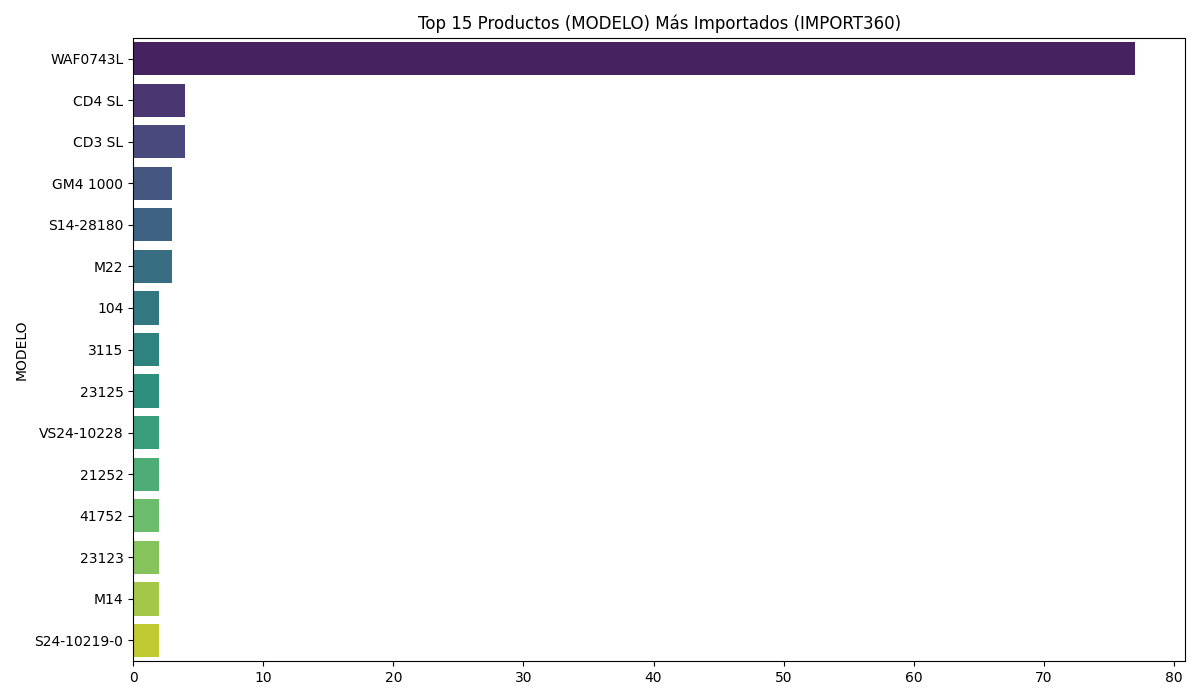
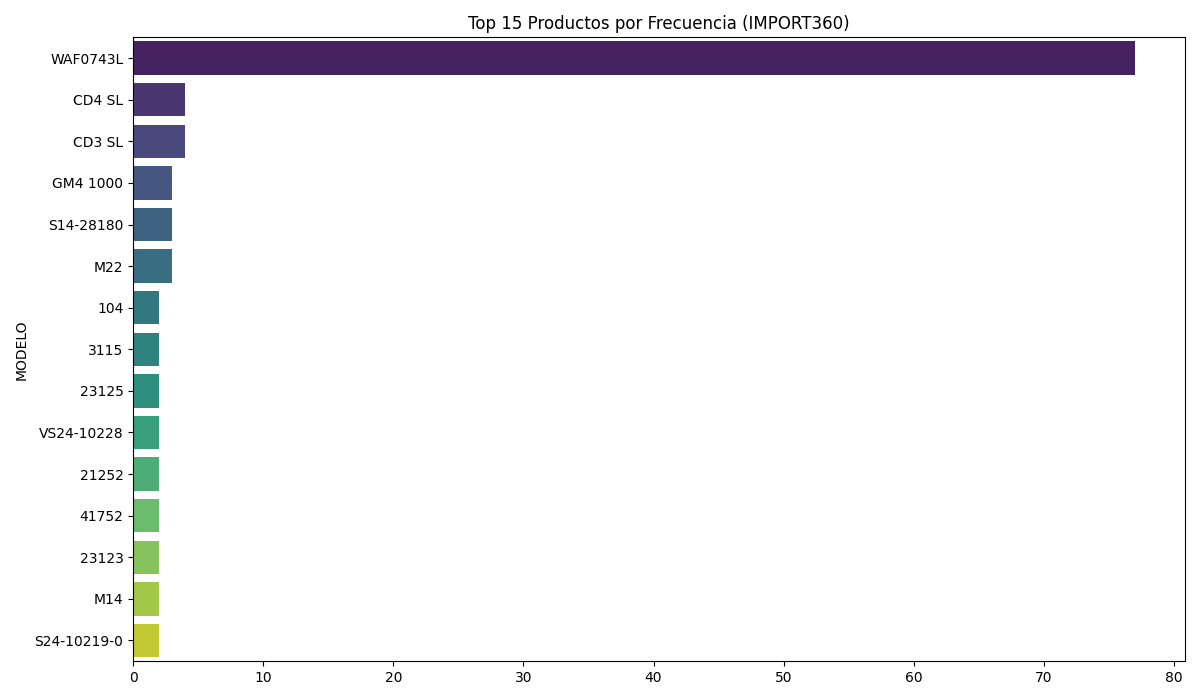
feat: Refina análisis para basarse en el valor de importación (US$ CIF)
Se ha actualizado el script `analisis.py` para centrar el análisis exploratorio de datos en el valor monetario de las importaciones (`US$ CIF`), en lugar del recuento de registros, proporcionando una perspectiva más orientada al negocio.

Cambios clave:
- Toda la lógica de agregación en los gráficos (tendencias, mapas de calor, etc.) ahora utiliza la suma de `US$ CIF`.
- Se han añadido nuevos gráficos para mostrar el "Top 15 de productos por valor" para cada empresa, complementando el análisis de frecuencia.
- El análisis de productos de temporada de pesca ahora identifica los productos más valiosos importados durante esos períodos.
- El `README.md` ha sido completamente actualizado para reflejar el nuevo enfoque en el valor, con nuevos títulos, descripciones y las visualizaciones correspondientes.

diff --git a/analisis.py b/analisis.py
@@ -29,82 +29,93 @@ def cargar_y_limpiar(archivo, marcas, nombre_empresa):
 df_jorle = cargar_y_limpiar('jorle.xlsx', marcas_jorle, 'Jorle')
 df_import360 = cargar_y_limpiar('IMPORT360.xlsx', marcas_import360, 'IMPORT360')
 df_completo = pd.concat([df_jorle, df_import360], ignore_index=True)
-df_completo.dropna(subset=['FECHA'], inplace=True)
+df_completo.dropna(subset=['FECHA', 'US$ CIF'], inplace=True)
 
 # --- Análisis Estadístico Conciso ---
 stats_buffer = io.StringIO()
 stats_buffer.write("--- Resumen Estadístico (Columnas Relevantes) ---\n")
-columnas_relevantes = ['US$ FOB', 'US$ FLETE', 'US$ SEGURO', 'US$ CIF', 'PESO NETO', 'PESO BRUTO', 'CANTIDAD']
+columnas_relevantes = ['US$ CIF', 'CANTIDAD COMERCIAL', 'PESO NETO', 'PESO BRUTO']
 df_relevante = df_completo[columnas_relevantes]
 stats_buffer.write(df_relevante.describe().to_string())
 with open("resumen_estadistico.txt", "w") as f:
     f.write(stats_buffer.getvalue())
 
-# --- Identificar Productos Clave en Temporada de Pesca ---
+# --- Identificar Productos Clave en Temporada de Pesca (por Valor) ---
 temporada_pesca = [4, 5, 6, 11, 12]
 df_pesca = df_completo[df_completo['FECHA'].dt.month.isin(temporada_pesca)]
-productos_top_pesca = df_pesca['MODELO'].value_counts().nlargest(15)
+productos_top_pesca_valor = df_pesca.groupby('MODELO')['US$ CIF'].sum().nlargest(15)
 with open("productos_temporada.txt", "w") as f:
-    f.write("--- Top 15 Productos (MODELO) en Temporada de Pesca ---\n")
-    f.write(productos_top_pesca.to_string())
+    f.write("--- Top 15 Productos (MODELO) por Valor US$ CIF en Temporada de Pesca ---\n")
+    f.write(productos_top_pesca_valor.to_string())
 
 # --- Función para Generar Gráficos por Empresa ---
 def generar_graficos_empresa(df_empresa, sufijo_empresa):
-    # 1. Gráfico de tendencia mensual de importaciones por marca
-    monthly_brand_data = df_empresa.groupby([df_empresa['FECHA'].dt.to_period('M'), 'MARCA_NORMALIZADA']).size().unstack(fill_value=0)
+    # 1. Gráfico de tendencia mensual por VALOR
+    monthly_brand_data = df_empresa.groupby(df_empresa['FECHA'].dt.to_period('M'))['US$ CIF'].sum()
     fig, ax = plt.subplots(figsize=(15, 8))
     monthly_brand_data.plot(kind='line', ax=ax)
-    ax.set_title(f'Tendencia Mensual de Importaciones por Marca ({sufijo_empresa})')
-    ax.legend(title='Marca', bbox_to_anchor=(1.05, 1), loc='upper left')
+    ax.set_title(f'Tendencia Mensual de Importaciones por Valor US$ CIF ({sufijo_empresa})')
+    ax.set_ylabel('Valor Total US$ CIF')
     plt.tight_layout()
-    plt.savefig(f'tendencia_mensual_marca_{sufijo_empresa}.png')
+    plt.savefig(f'tendencia_valor_mensual_{sufijo_empresa}.png')
     plt.close(fig)
 
-    # 2. Histograma de frecuencia de los 15 productos más importados
+    # 2. Histograma por FRECUENCIA
     fig, ax = plt.subplots(figsize=(12, 7))
-    top_15_modelos = df_empresa['MODELO'].value_counts().nlargest(15)
-    sns.barplot(x=top_15_modelos.values, y=top_15_modelos.index, palette='viridis', ax=ax)
-    ax.set_title(f'Top 15 Productos (MODELO) Más Importados ({sufijo_empresa})')
+    top_15_modelos_freq = df_empresa['MODELO'].value_counts().nlargest(15)
+    sns.barplot(x=top_15_modelos_freq.values, y=top_15_modelos_freq.index, palette='viridis', ax=ax)
+    ax.set_title(f'Top 15 Productos por Frecuencia ({sufijo_empresa})')
     plt.tight_layout()
     plt.savefig(f'frecuencia_productos_{sufijo_empresa}.png')
     plt.close(fig)
 
-    # 3. Mapa de calor de importaciones por marca y mes
-    heatmap_data = df_empresa.groupby([df_empresa['FECHA'].dt.month, 'MARCA_NORMALIZADA']).size().unstack(fill_value=0)
+    # 3. Histograma por VALOR
+    fig, ax = plt.subplots(figsize=(12, 7))
+    top_15_modelos_valor = df_empresa.groupby('MODELO')['US$ CIF'].sum().nlargest(15)
+    sns.barplot(x=top_15_modelos_valor.values, y=top_15_modelos_valor.index, palette='plasma', ax=ax)
+    ax.set_title(f'Top 15 Productos por Valor US$ CIF ({sufijo_empresa})')
+    ax.set_xlabel('Valor Total US$ CIF')
+    plt.tight_layout()
+    plt.savefig(f'valor_productos_{sufijo_empresa}.png')
+    plt.close(fig)
+
+    # 4. Mapa de calor por VALOR
+    heatmap_data = df_empresa.groupby([df_empresa['FECHA'].dt.month, 'MARCA_NORMALIZADA'])['US$ CIF'].sum().unstack(fill_value=0)
     fig, ax = plt.subplots(figsize=(18, 10))
-    sns.heatmap(heatmap_data, cmap='YlGnBu', annot=True, fmt='d', ax=ax)
-    ax.set_title(f'Concentración de Importaciones por Marca y Mes ({sufijo_empresa})')
+    sns.heatmap(heatmap_data, cmap='YlGnBu', annot=True, fmt='.0f', ax=ax)
+    ax.set_title(f'Valor de Importaciones (US$ CIF) por Marca y Mes ({sufijo_empresa})')
     ax.set_ylabel('Mes')
     ax.set_yticks(ticks=range(len(heatmap_data.index)), labels=[pd.to_datetime(m, format='%m').strftime('%b') for m in heatmap_data.index], rotation=0)
     plt.xticks(rotation=45, ha='right')
     plt.tight_layout()
-    plt.savefig(f'heatmap_marca_mes_{sufijo_empresa}.png')
+    plt.savefig(f'heatmap_valor_marca_mes_{sufijo_empresa}.png')
     plt.close(fig)
 
-    # 4. Gráfico de barras de importaciones mensuales con temporadas de pesca
-    df_mensual = df_empresa.set_index('FECHA').resample('M').size()
+    # 5. Gráfico de barras de importaciones mensuales (por VALOR) con temporadas de pesca
+    df_mensual = df_empresa.set_index('FECHA').resample('M')['US$ CIF'].sum()
     colores = ['red' if i.month in temporada_pesca else 'blue' for i in df_mensual.index]
     fig, ax = plt.subplots(figsize=(12, 7))
     df_mensual.plot(kind='bar', color=colores, ax=ax)
-    ax.set_title(f'Importaciones Mensuales y Temporadas de Pesca ({sufijo_empresa})')
+    ax.set_title(f'Valor de Importaciones (US$ CIF) y Temporadas de Pesca ({sufijo_empresa})')
+    ax.set_ylabel('Valor Total US$ CIF')
     plt.xticks(rotation=45)
     plt.tight_layout()
-    plt.savefig(f'importaciones_temporada_pesca_{sufijo_empresa}.png')
+    plt.savefig(f'valor_importaciones_temporada_{sufijo_empresa}.png')
     plt.close(fig)
 
 # --- Generar Gráficos ---
-# Gráficos individuales por empresa
 generar_graficos_empresa(df_jorle, 'Jorle')
 generar_graficos_empresa(df_import360, 'IMPORT360')
 
-# Gráfico comparativo entre ambas empresas (se mantiene)
-monthly_company_data = df_completo.groupby([df_completo['FECHA'].dt.to_period('M'), 'EMPRESA']).size().unstack(fill_value=0)
+# Gráfico comparativo entre ambas empresas (por VALOR)
+monthly_company_data = df_completo.groupby([df_completo['FECHA'].dt.to_period('M'), 'EMPRESA'])['US$ CIF'].sum().unstack(fill_value=0)
 fig, ax = plt.subplots(figsize=(12, 7))
 monthly_company_data.plot(kind='line', ax=ax)
-ax.set_title('Comparativo Mensual de Importaciones entre Empresas')
+ax.set_title('Comparativo Mensual de Valor de Importaciones (US$ CIF) entre Empresas')
+ax.set_ylabel('Valor Total US$ CIF')
 ax.legend(title='Empresa')
 plt.tight_layout()
-plt.savefig('comparativo_empresas.png')
+plt.savefig('comparativo_valor_empresas.png')
 plt.close(fig)
 
-print("Análisis y visualizaciones generadas y guardadas.")
+print("Análisis y visualizaciones basadas en valor US$ CIF generadas y guardadas.")

diff --git a/README.md b/README.md
@@ -1,81 +1,87 @@
-# Análisis Comparativo de Importaciones: Jorle vs. IMPORT360
+# Análisis de Valor de Importaciones (US$ CIF): Jorle vs. IMPORT360
 
 ## Resumen del Análisis
 
-Este análisis explora los datos de importación de **Jorle** e **IMPORT360** para identificar patrones estacionales y tendencias relacionadas con las temporadas de pesca en Perú. A continuación, se presenta un análisis comparativo y un desglose individual para cada empresa.
+Este análisis explora el **valor de las importaciones (US$ CIF)** de **Jorle** e **IMPORT360**, con el objetivo de identificar patrones estacionales y tendencias de valor relacionadas con las temporadas de pesca en Perú.
 
 ### Estadísticas Descriptivas (Columnas Relevantes)
 
 ```
 --- Resumen Estadístico (Columnas Relevantes) ---
-            US$ FOB    US$ FLETE  US$ SEGURO       US$ CIF    PESO NETO   PESO BRUTO    CANTIDAD
-count    329.000000   329.000000  329.000000    329.000000   329.000000   329.000000  329.000000
-mean    3134.049240    69.192401   23.300304   3226.542097    71.421064    79.869696    7.362918
-std     5357.975135   203.939527   57.050857   5501.949219   179.324114   208.179345   16.188483
-min        0.880000     0.020000    0.020000      0.920000     0.010000     0.010000    0.010000
-25%      272.340000     2.930000    1.210000    280.820000     1.450000     1.610000    1.000000
-50%     1037.480000    11.940000    5.730000   1043.860000     7.300000     8.260000    2.000000
-75%     3245.370000    43.150000   18.960000   3300.770000    39.000000    41.290000    8.000000
-max    42891.470000  1806.250000  750.600000  43778.550000  1400.000000  1763.100000  192.000000
+            US$ CIF  CANTIDAD COMERCIAL    PESO NETO   PESO BRUTO
+count    329.000000          329.000000   329.000000   329.000000
+mean    3226.542097            6.479027    71.421064    79.869696
+std     5501.949219            8.057693   179.324114   208.179345
+min        0.920000            1.000000     0.010000     0.010000
+25%      280.820000            1.000000     1.450000     1.610000
+50%     1043.860000            3.000000     7.300000     8.260000
+75%     3300.770000           10.000000    39.000000    41.290000
+max    43778.550000           60.000000  1400.000000  1763.100000
 ```
 
-## Análisis Comparativo
+## Análisis Comparativo por Valor (US$ CIF)
 
-### Comparativo Mensual de Importaciones entre Empresas
-![Comparativo Mensual de Importaciones entre Empresas](comparativo_empresas.png)
+### Comparativo Mensual de Valor de Importaciones
+![Comparativo Mensual de Valor de Importaciones (US$ CIF) entre Empresas](comparativo_valor_empresas.png)
 
 ## Análisis Individual: Jorle
 
-### Tendencia Mensual de Importaciones por Marca (Jorle)
-![Tendencia Mensual de Importaciones por Marca (Jorle)](tendencia_mensual_marca_Jorle.png)
+### Tendencia Mensual por Valor (Jorle)
+![Tendencia Mensual de Importaciones por Valor US$ CIF (Jorle)](tendencia_valor_mensual_Jorle.png)
 
-### Top 15 Productos (MODELO) Más Importados (Jorle)
-![Top 15 Productos (MODELO) Más Importados (Jorle)](frecuencia_productos_Jorle.png)
+### Top 15 Productos por Frecuencia (Jorle)
+![Top 15 Productos por Frecuencia (Jorle)](frecuencia_productos_Jorle.png)
 
-### Concentración de Importaciones por Marca y Mes (Jorle)
-![Concentración de Importaciones por Marca y Mes (Jorle)](heatmap_marca_mes_Jorle.png)
+### Top 15 Productos por Valor US$ CIF (Jorle)
+![Top 15 Productos por Valor US$ CIF (Jorle)](valor_productos_Jorle.png)
 
-### Importaciones Mensuales y Temporadas de Pesca (Jorle)
-![Importaciones Mensuales y Temporadas de Pesca (Jorle)](importaciones_temporada_pesca_Jorle.png)
+### Valor de Importaciones por Marca y Mes (Jorle)
+![Valor de Importaciones (US$ CIF) por Marca y Mes (Jorle)](heatmap_valor_marca_mes_Jorle.png)
+
+### Valor de Importaciones y Temporadas de Pesca (Jorle)
+![Valor de Importaciones (US$ CIF) y Temporadas de Pesca (Jorle)](valor_importaciones_temporada_Jorle.png)
 
 ## Análisis Individual: IMPORT360
 
-### Tendencia Mensual de Importaciones por Marca (IMPORT360)
-![Tendencia Mensual de Importaciones por Marca (IMPORT360)](tendencia_mensual_marca_IMPORT360.png)
+### Tendencia Mensual por Valor (IMPORT360)
+![Tendencia Mensual de Importaciones por Valor US$ CIF (IMPORT360)](tendencia_valor_mensual_IMPORT360.png)
 
-### Top 15 Productos (MODELO) Más Importados (IMPORT360)
-![Top 15 Productos (MODELO) Más Importados (IMPORT360)](frecuencia_productos_IMPORT360.png)
+### Top 15 Productos por Frecuencia (IMPORT360)
+![Top 15 Productos por Frecuencia (IMPORT360)](frecuencia_productos_IMPORT360.png)
 
-### Concentración de Importaciones por Marca y Mes (IMPORT360)
-![Concentración de Importaciones por Marca y Mes (IMPORT360)](heatmap_marca_mes_IMPORT360.png)
+### Top 15 Productos por Valor US$ CIF (IMPORT360)
+![Top 15 Productos por Valor US$ CIF (IMPORT360)](valor_productos_IMPORT360.png)
 
-### Importaciones Mensuales y Temporadas de Pesca (IMPORT360)
-![Importaciones Mensuales y Temporadas de Pesca (IMPORT360)](importaciones_temporada_pesca_IMPORT360.png)
+### Valor de Importaciones por Marca y Mes (IMPORT360)
+![Valor de Importaciones (US$ CIF) por Marca y Mes (IMPORT360)](heatmap_valor_marca_mes_IMPORT360.png)
 
-## Conclusiones y Productos Relevantes
+### Valor de Importaciones y Temporadas de Pesca (IMPORT360)
+![Valor de Importaciones (US$ CIF) y Temporadas de Pesca (IMPORT360)](valor_importaciones_temporada_IMPORT360.png)
+
+## Conclusiones y Productos de Mayor Valor
 
 ### Coincidencias y Patrones
-- **Patrón Estacional:** Ambas empresas muestran un aumento en las importaciones durante los meses de temporada de pesca (abril-junio y noviembre-diciembre), lo que sugiere una estrategia de aprovisionamiento anticipado.
-- **Marcas Dominantes:** Marcas como **SAI** y **VELJAN** son relevantes para ambas empresas, aunque cada una tiene sus propias marcas preferidas.
+- **Patrón Estacional de Valor:** Ambas empresas incrementan significativamente el valor de sus importaciones en los meses de temporada de pesca.
+- **Productos de Alto Valor:** El análisis por valor revela que ciertos productos, aunque no se importan con alta frecuencia, representan una inversión económica considerable.
 
-### Top 15 Productos (MODELO) en Temporada de Pesca
-A continuación se listan los productos más importados durante las temporadas de pesca:
+### Top 15 Productos por Valor en Temporada de Pesca
+A continuación, los productos de mayor valor `US$ CIF` importados durante las temporadas de pesca:
 ```
---- Top 15 Productos (MODELO) en Temporada de Pesca ---
+--- Top 15 Productos (MODELO) por Valor US$ CIF en Temporada de Pesca ---
 MODELO
-0054100031     2
-0053060089     2
-S14-28180      2
-S24-10219-0    2
-FC51-1-1/4     2
-0154427212     2
-'K140000250    2
-923157         2
-0133106394     1
-0054020017     1
-0140000012     1
-0190000083     1
-0140130087     1
-M-12-3-97-7    1
-0006167-000    1
+RATO-R               43778.55
+0054100031           32755.57
+3115                 23831.42
+RATO-DS 3115-2201    22190.11
+M25-3-101-3          21020.38
+0053060089           19870.22
+0053070237           12948.12
+RATO S               11056.98
+0054020017           10980.11
+S24-10228             9592.38
+119-1043              9294.37
+RATO-S                7757.90
+GM5A                  7733.48
+GS4                   7688.40
+M-12-3-97-7           7581.66
 ```
